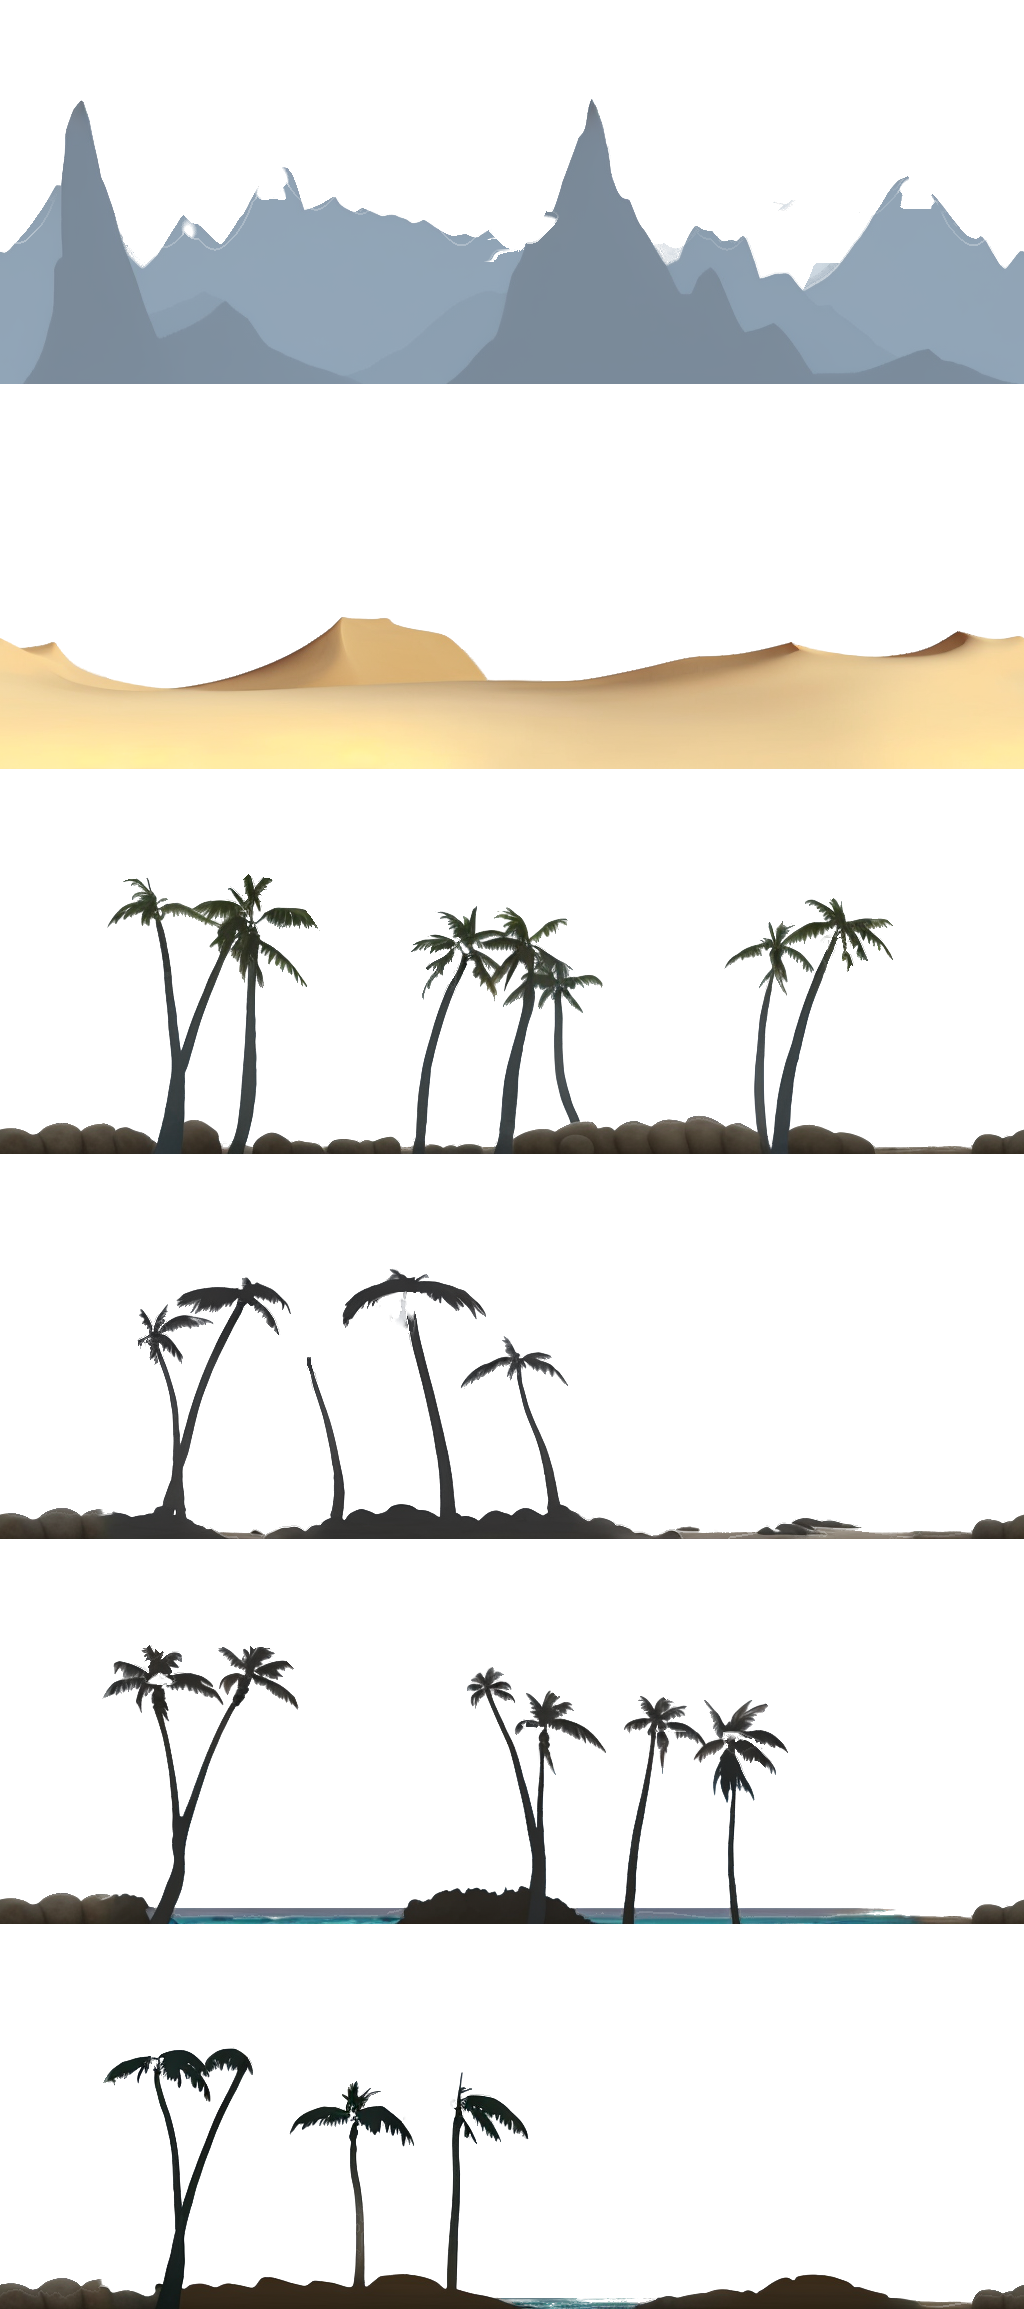
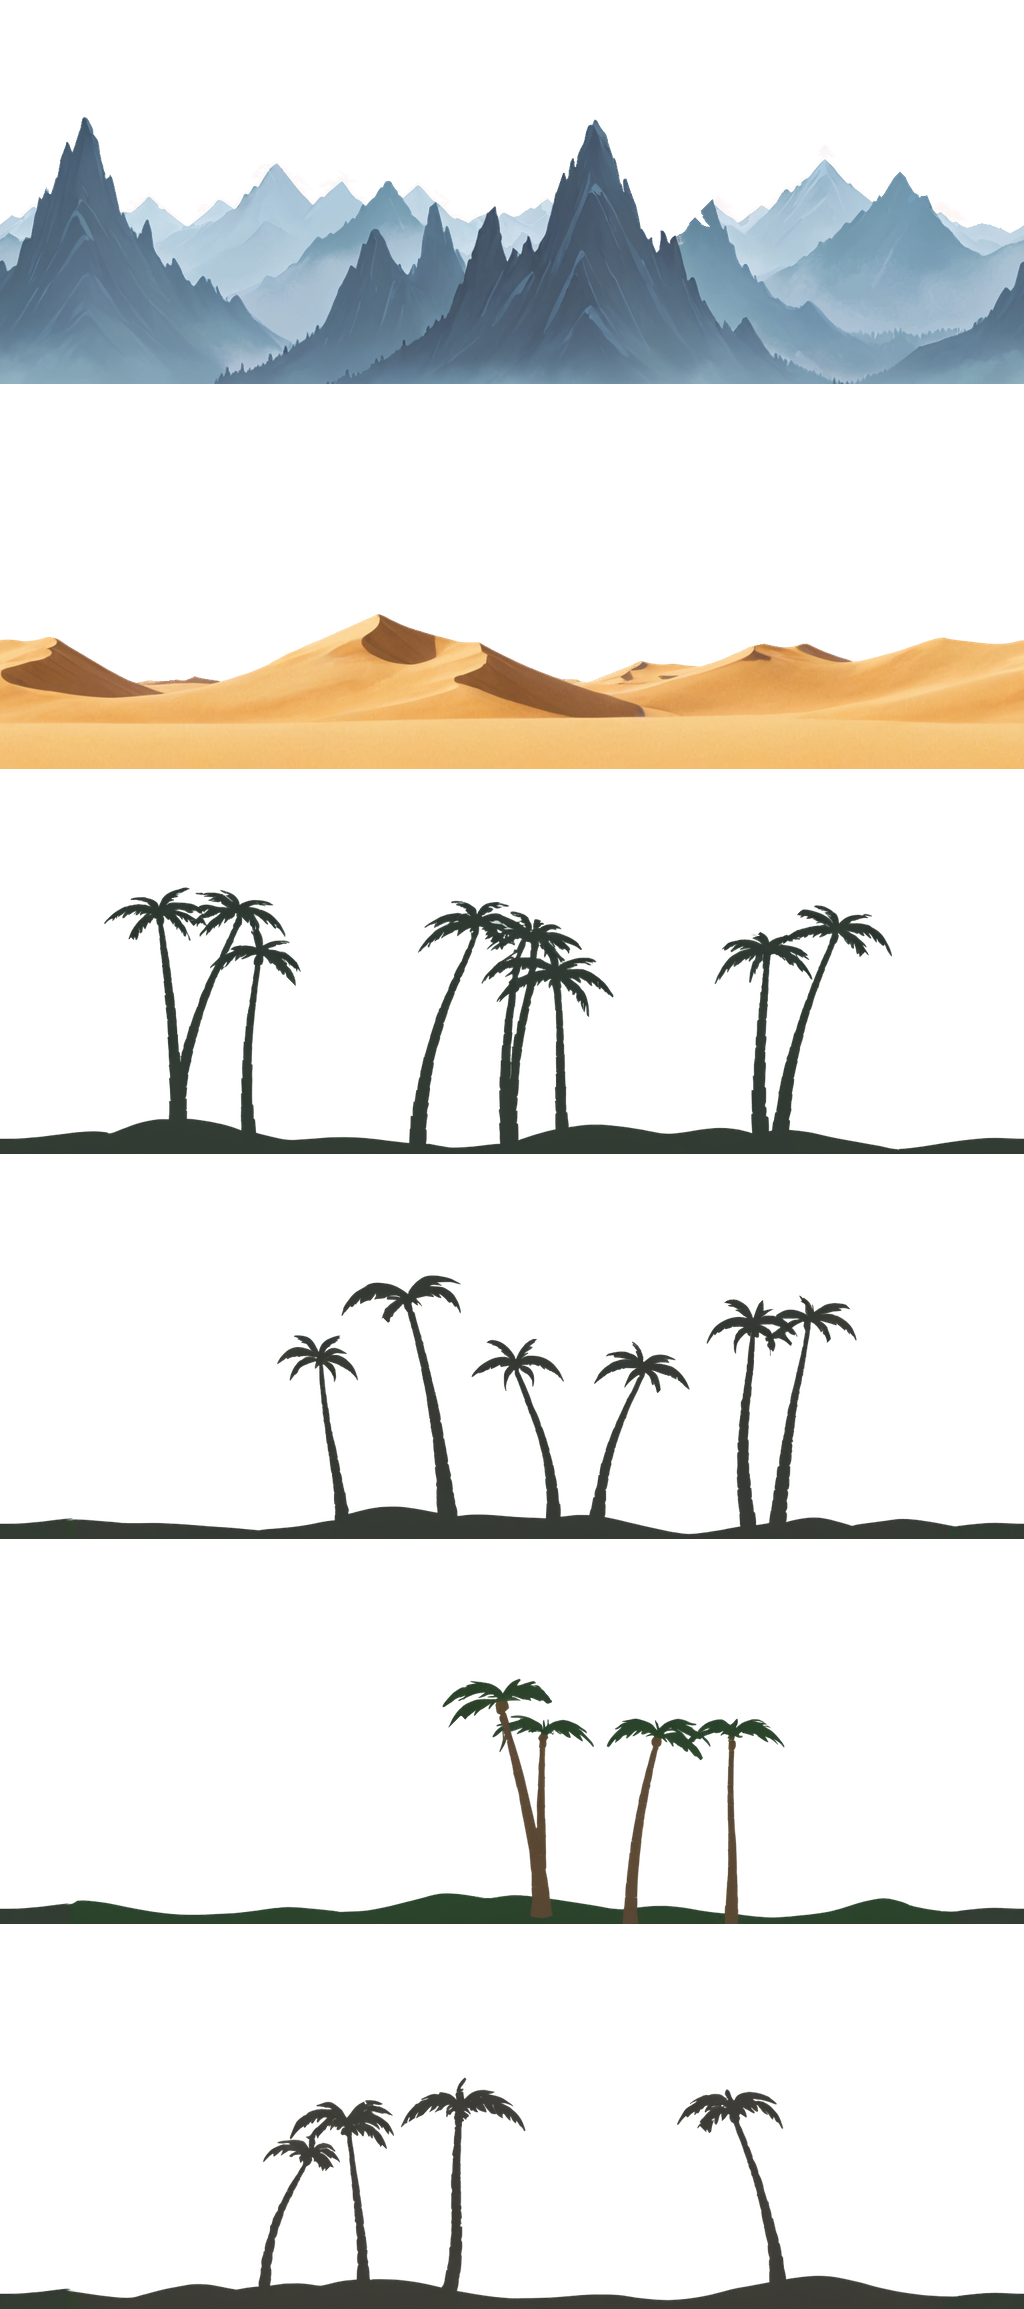
Anim lab beach: mountains, dunes and palms repainted by today's AI tools, the sea kept (r478)
Simon on r455: remake the layers in front of and behind the sea, the mountains with detail, the palms whole (r365's
had crownless trunks). Painted by DreamShaperXL Turbo + Storybook (parallax-ai R3's "story" recipe), picked over
today's dreamshaper_8 (palms whole but flat mountains) and R3's inpaint + canny (pines and bare umbrella palms on a
tropical beach). r365's sea strip is put back and the page laid out around it with --keep: beach-sea.png is
byte for byte as it was, so MIRROR's 84-of-384 horizon holds; the layout moved l0/l1/l2 down 0.1-0.6 % of the world.
make_lab.py reads the generated atlas's regions and scales the 1536x576 strips to 1024x384 (premultiplied), 847 KB.
tools/r478-beach/remake.sh does it all again; the page lints clean.

Persona: Iris Ralax
Session: iris-fedora-parallax-255

diff --git a/core/browser-test/webapp/anim-lab.html b/core/browser-test/webapp/anim-lab.html
@@ -29,7 +29,7 @@
 	<b>Detail levels</b> (the first view, r462: what ships): the sea as a game would draw it at each detail level it
 	may pick, at the sliders' numbers (they start at Simon's, r419): high, SWELL + MIRROR + GLINT; medium, SWELL + GLINT;
 	off, nothing (the painting as it is).
-	<b>The sea</b> is r365's AI beach page, its sea a SHADER layer drawn four ways. <b>WAVE</b> is what ships today: whole
+	<b>The sea</b> is the AI beach page's (r365's sea; its mountains, dunes and palms repainted by r478), drawn four ways as a SHADER layer. <b>WAVE</b> is what ships today: whole
 	rows slide sideways. <b>SWELL</b>: the water moved by two crossing travelling waves, sideways and up and down, so the
 	painted crests bend. <b>GLINT</b>: sun glitter on the painting's own crests (r408): where a pixel is brighter
 	than the water just above and below it, pieces of that line light up and fade in and out in place, each at its own

diff --git a/core/test-data/anim/make_lab.py b/core/test-data/anim/make_lab.py
@@ -1,16 +1,22 @@
-"""The animation lab's beach atlas (r407): r365's AI page, repacked under the push check's 1 MB.
+"""The animation lab's beach atlas (r407, r478): an AI page's atlas, repacked under the push check's 1 MB.
 
-    python3 core/test-data/anim/make_lab.py build/r365/after/beach-painted/page/beach.png
+    python3 core/test-data/anim/make_lab.py build/r478/e-final/page/beach.atlas
 
-Every 1024x384 strip keeps its size: the reader sizes a layer by its region's packed height, so a trimmed strip draws
-another page (the sea went from 15 to 3.3 world units high). The sea, l1, the layer the lab animates, is its own page,
-beach-sea.png; the others, the backdrop, share beach.png. Every pixel is as painted but the colour under a fully
-transparent one more than a pixel from any other, set to 0: the painter's noise there cost 1.4 MB, and linear filtering
-reads no farther than the next pixel (zeroed up to the edge, 3000 edge pixels drew up to 42/255 darker). beach.jplax is the page as generated, untouched.
+Reads the generated atlas's regions wherever it packed them and brings each strip to 1024x384: the sea as painted at
+that size by r365, the others (painted 1536x576 by an SDXL model, r478) scaled down, premultiplied, Lanczos. A layer's
+world size comes from its strip's shape, 8:3 either way, so the page is the same page; the generated sheet was 6 MB.
+Every 1024x384 strip keeps its full size: the reader sizes a layer by its region's packed height, so a trimmed strip
+draws another page (the sea went from 15 to 3.3 world units high). The sea, l1, the layer the lab animates, is its own
+page, beach-sea.png; the others, the backdrop, share beach.png. Every pixel is as painted but the colour under a fully
+transparent one more than a pixel from any other, set to 0: the painter's noise there cost 1.4 MB, and linear
+filtering reads no farther than the next pixel (zeroed up to the edge, 3000 edge pixels drew up to 42/255 darker).
+beach.jplax is the page as generated, untouched.
 """
 import os
 import sys
+from pathlib import Path
 
+import numpy as np
 from PIL import Image, ImageFilter
 
 STRIPS = ["l0", "l1", "l2", "l3_0", "l3_1", "l3_2", "l3_3"]
@@ -25,12 +31,39 @@ def page(png, size):
     return f"{png}\nsize: {size[0]}, {size[1]}\nformat: RGBA8888\nfilter: Linear,Linear\nrepeat: none\n"
 
 
+def regions_of(atlas):
+    """Each region's (x, y, w, h) in the atlas's one page, and that page's file."""
+    lines = Path(atlas).read_text().splitlines()
+    png, found, name = lines[0].strip() or lines[1].strip(), {}, None
+    for line in lines:
+        if line and not line.startswith(" ") and ":" not in line and not line.endswith(".png"):
+            name = line.strip()
+        elif name and line.strip().startswith(("xy:", "size:")):
+            key, value = line.strip().split(":")
+            found.setdefault(name, {})[key] = [int(v) for v in value.split(",")]
+    return os.path.join(os.path.dirname(atlas), png), {n: (*r["xy"], *r["size"]) for n, r in found.items()}
+
+
+def scaled(strip):
+    """The strip at W x H, its colour premultiplied while it is filtered, so a clear pixel's colour does not bleed."""
+    if strip.size == (W, H):
+        return strip
+    a = np.asarray(strip, dtype=np.float32) / 255
+    a[..., :3] *= a[..., 3:]
+    bands = [Image.fromarray(a[..., i]).resize((W, H), Image.LANCZOS) for i in range(4)]
+    b = np.clip(np.stack([np.asarray(x) for x in bands], axis=-1), 0, 1)
+    b[..., :3] /= np.maximum(b[..., 3:], 1e-6)
+    return Image.fromarray(np.round(np.clip(b, 0, 1) * 255).astype(np.uint8), "RGBA")
+
+
 def main():
-    src = Image.open(sys.argv[1]).convert("RGBA")
+    png, where = regions_of(sys.argv[1])
+    src = Image.open(png).convert("RGBA")
     here = os.path.dirname(os.path.abspath(__file__))
     cut = {}
-    for i, name in enumerate(STRIPS):
-        strip = src.crop((0, i * (H + 1), W, i * (H + 1) + H))
+    for name in STRIPS:
+        x, y, w, h = where[name]
+        strip = scaled(src.crop((x, y, x + w, y + h)))
         clear = strip.getchannel("A").filter(ImageFilter.MaxFilter(3)).point(lambda a: 255 if a == 0 else 0)
         strip.paste((0, 0, 0, 0), mask=clear)
         cut[name] = strip

diff --git a/core/browser-test/launcher/jks/tools2d/parallax/browsertest/AnimLab.java b/core/browser-test/launcher/jks/tools2d/parallax/browsertest/AnimLab.java
@@ -27,7 +27,7 @@ import jks.tools2d.parallax.pages.WholePage_Model;
  * can judge which to ship before any is written three times. Opened with anim-lab.html: tools/anim-lab.sh. The clouds'
  * BILLOW has a lab of its own since r451, {@link CloudsLab}.
  * <p>
- * The sea: r365's AI beach page (core/test-data/anim), its sea (l1) a SHADER layer drawn four ways: WAVE (what ships,
+ * The sea: the AI beach page (core/test-data/anim: r365's sea, r478's backdrop), its sea (l1) a SHADER layer drawn four ways: WAVE (what ships,
  * GdxLayerEffects' own), SWELL, GLINT, and SWELL then GLINT in one shader. SWELL ships since r431: it, and SWELL + GLINT,
  * are GdxLayerEffects' own SWELL program (r435), the lab's GLSL keeps its SWELL for its other MIRROR views. MIRROR by
  * the water's colour + GLINT ships since r455 (Enum_ShaderEffect.MIRROR): it, and the detail levels' 'high', draw

diff --git a/core/test-data/anim/README.md b/core/test-data/anim/README.md
@@ -1,9 +1,18 @@
-# The animation lab's beach (r407)
+# The animation lab's beach (r407, r478)
 
-`beach.jplax` is r365's AI page ("tropical beach, palm trees, warm sunny afternoon", `tools/ai-page.sh`, painted,
-seed 11), copied from `build/r365/after/beach-painted/page/` as it was written: the strips r375's
-`tools/r375-animated-layer/shaders.py` animated. `beach.atlas`, `beach.png` and `beach-sea.png` are its atlas, repacked
-by `make_lab.py` under the push check's 1 MB (the generated one was 2.4 MB): each strip at its full size, the sea on a
-page of its own, every visible pixel as painted. The lab draws it within 1/255 of the generated atlas. `AnimLab`
-(core/browser-test) makes its sea, `l1`, a `SHADER` layer when it loads it; the file is the page as generated. Never
+`beach.jplax` is an AI page ("tropical beach, palm trees, warm sunny afternoon", `tools/ai-page.sh`, painted, seed 11)
+in two paintings. Its sea, `l1`, is r365's (dreamshaper_8), the strip r375's `tools/r375-animated-layer/shaders.py`
+animated and MIRROR's horizon is measured on (84 of its 384 rows, r455): `beach-sea.png`, never repainted. Its
+mountains, dunes and palms (`l0`, `l2`, `l3_0`-`l3_3`) are r478's, painted by DreamShaperXL Turbo with the
+Storybook LoRA (parallax-ai R3's "story" recipe, Simon on r455: mountains with detail, palms whole):
+
+    tools/ai-page.sh --theme 'tropical beach, palm trees, warm sunny afternoon' --name beach --style painted \
+        --kinds mountains,sea,dunes,palms --colours 8aa3b8,3fb0b0,e0c890,2a3a25 --sky 4f8fd0,cfe4f2 --seed 11 \
+        --ckpt DreamShaperXL_Turbo_v2_1.safetensors --steps 8 --cfg 2 --sampler dpmpp_sde \
+        --lora StorybookRedmondV2_XL.safetensors --lora-strength 0.9 OUT
+
+then r365's `strips/l1_*` put in place of that run's and the page laid out again with `--keep` (the same flags), so
+the layout is measured on the sea that ships. `beach.jplax` is that page as written. `beach.atlas`, `beach.png` and
+`beach-sea.png` are its atlas, repacked by `make_lab.py` under the push check's 1 MB (the generated one was 6 MB): each
+strip at 1024x384, the sea on a page of its own. The lab makes its sea a `SHADER` layer when it loads it. Never
 re-export it: a lab judged on it is judged on these pixels.
